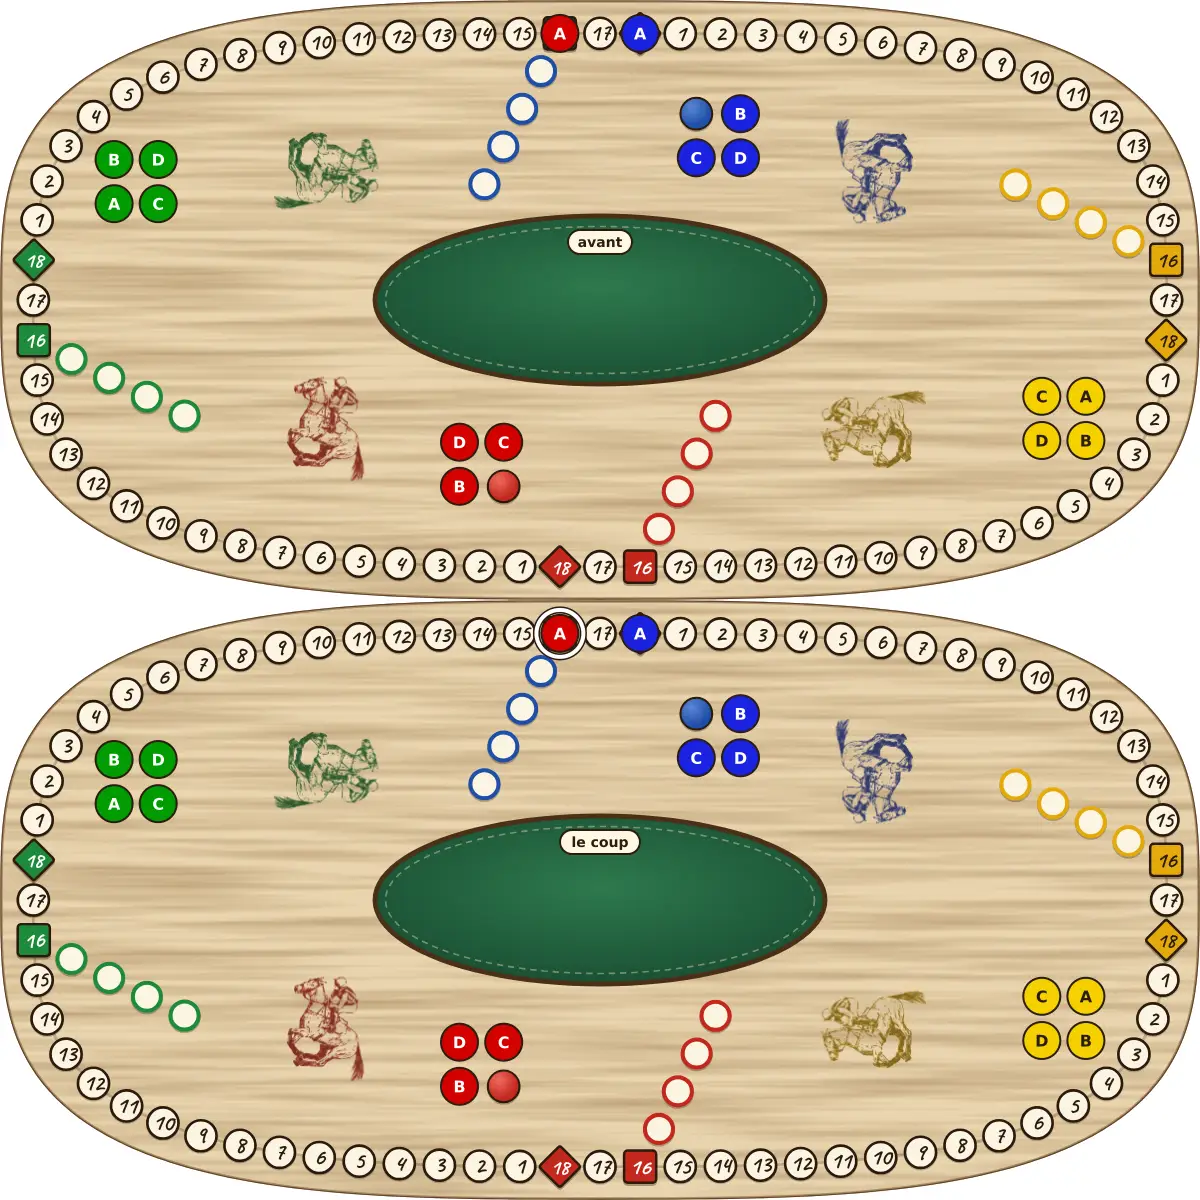
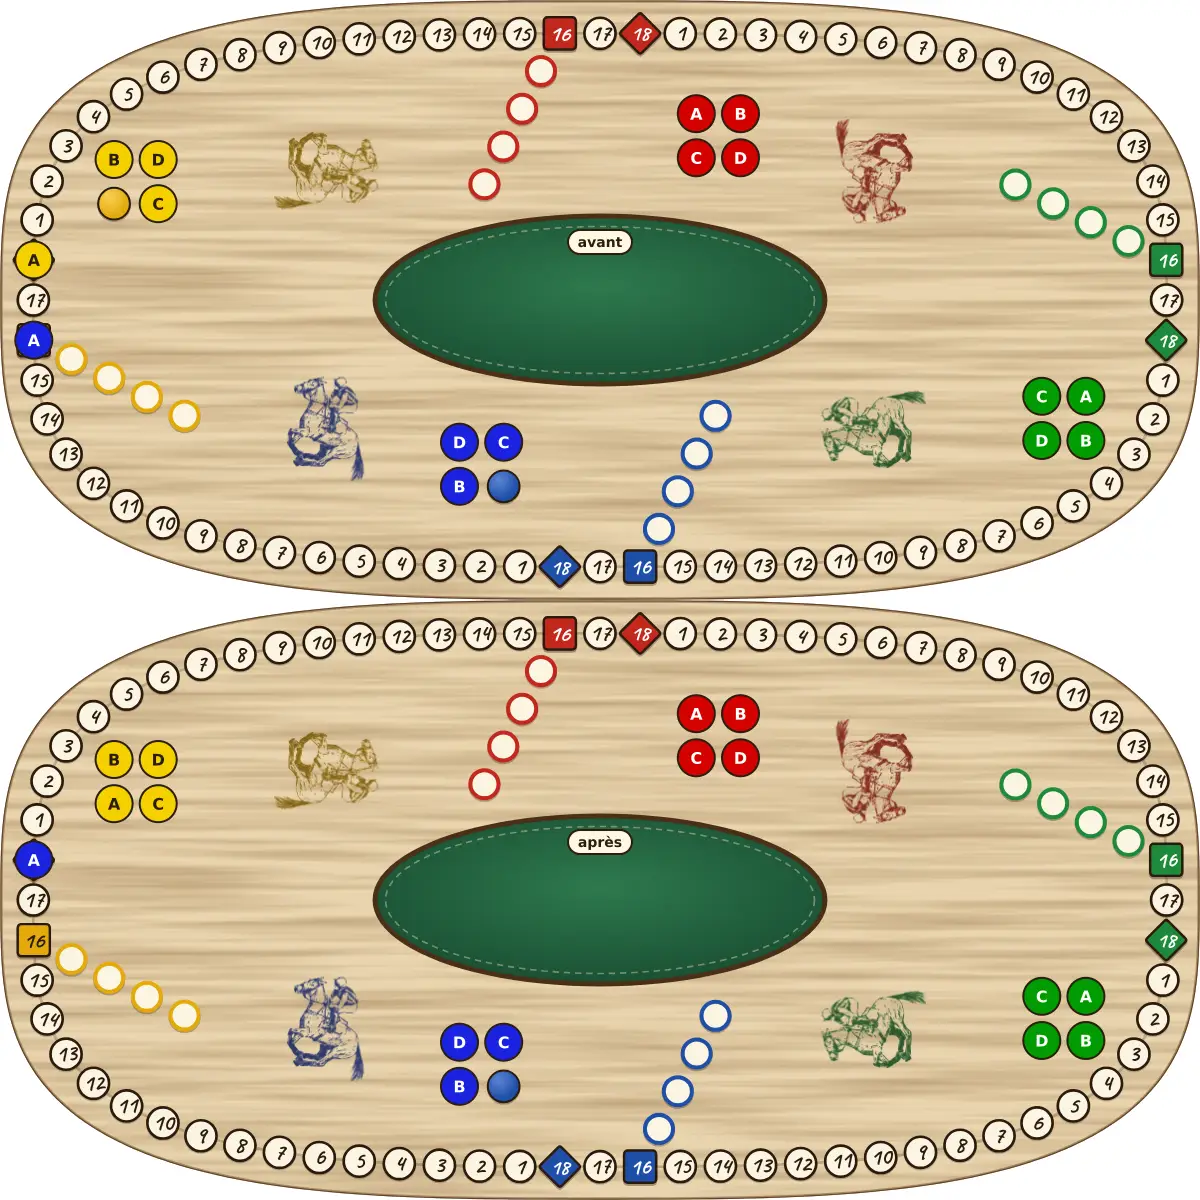
docs(04-14): G18 in RULES.md, scenarios R-12.11 to R-12.13 and their pictures
- R-12: only the knight just out of its stable is protected, until it moves; cas limites rewritten
- G18 under « Décisions de Romain » with his words and answers; G3 marked replaced; R-06, Q14 notes
- R-12.9 redrawn (ordinary after a lap: passed, eaten, swapped); R-12.11 the Valet, R-12.12 the 4 back,
  R-12.13 its own ordinary knight still blocks a second exit (« Garde le blocage »)
- property invariant: explicit flag, protected only when just out and unmoved, exits protected
- rules-trace OK (16 règles, 125 scénarios); selfplay 200 games finish

Claude-Session: https://claude.ai/code/session_01XFcHMq7VzYHojVCw4WGh9Z

diff --git a/packages/engine/test/props/invariants.test.ts b/packages/engine/test/props/invariants.test.ts
@@ -4,8 +4,9 @@
 // agree, deals end, every home entry goes forward through the colour's carré 16 (G14), no knight of the
 // mover's team is eaten in passing (G15), G16 never changes whether a 7 is playable and every applied 7
 // brings home each knight it moved that it could bring home, a knight whose count lands on an empty home
-// slot enters, jumping the knights already home (D-02, G17), and the same seed and actions give the
-// same JSON.
+// slot enters, jumping the knights already home (D-02, G17), only the knight just out of its stable is
+// protected on its own losange and it stays so until it moves (G18), and the same seed and actions give
+// the same JSON.
 
 import fc from "fast-check";
 import { describe, expect, it } from "vitest";
@@ -32,6 +33,7 @@ import {
   PARTNER,
   type PawnId,
   type Place,
+  pawnColor,
   RING,
   type Rng,
   rankOf,
@@ -82,6 +84,12 @@ const seen = {
   homeJumps: 0,
   /** D-02 with G17: forward ring moves that crossed or left their carré 16 (none may skip an open slot). */
   entryChances: 0,
+  /** G18: knights that came out of their stable, protected. */
+  exitsProtected: 0,
+  /** G18: actions after which a knight just out stayed protected without moving. */
+  protectionKept: 0,
+  /** G18: knights standing on their own losange as ordinary knights (back after a lap, a swap or a 4). */
+  ordinaryOnOwnExit: 0,
 };
 
 function check(condition: boolean, message: string): void {
@@ -166,6 +174,40 @@ function checkEntries(before: GameState, events: readonly GameEvent[]): void {
 }
 
 const colorOf = (id: PawnId): Color => id.slice(0, -1) as Color;
+
+/**
+ * G18: every ring knight carries an explicit flag; a knight is protected (justOut) only on its own
+ * losange at progress 0, and only when it came out of its stable with this action or was already
+ * protected and did not move; a knight that came out is protected; a knight that moved is not.
+ */
+function checkProtection(before: GameState, after: GameState, events: readonly GameEvent[]): void {
+  const exited = new Set(events.flatMap((e) => (e.t === "pawnExited" ? [e.pawn] : [])));
+  for (const id of ALL_PAWNS) {
+    const was = before.pawns[id];
+    const now = after.pawns[id];
+    if (now.zone !== "ring") continue;
+    check(typeof now.justOut === "boolean", `${id} on the ring without the G18 flag`);
+    const unmoved = was.zone === "ring" && was.progress === now.progress && !exited.has(id);
+    if (exited.has(id)) {
+      check(now.justOut === true && now.progress === 0, `${id} came out unprotected`);
+      seen.exitsProtected++;
+    } else if (now.justOut === true) {
+      check(
+        unmoved && was.zone === "ring" && was.justOut === true && now.progress === 0,
+        `${id} protected without coming out of its stable`,
+      );
+      seen.protectionKept++;
+    } else if (unmoved && was.zone === "ring") {
+      check(was.justOut !== true, `${id} lost its protection without moving`);
+    }
+    if (
+      now.justOut === false &&
+      ringIndex(pawnColor(id), now.progress) === ringIndex(pawnColor(id), 0)
+    ) {
+      seen.ordinaryOnOwnExit++;
+    }
+  }
+}
 
 /**
  * D-02 with G17, event by event, the home slots followed through the action: a forward move of a ring
@@ -500,6 +542,7 @@ function playChecked(
     checkPawns(state);
     checkEntries(before, result.events);
     checkHomeJumps(before, result.events);
+    checkProtection(before, state, result.events);
     checkTeamCaptures(before, state, action, result.events);
     checkDutyKept(duty, action, state);
 
@@ -562,6 +605,11 @@ describe("engine invariants over 200 random games driven by the level-1 bot", ()
     expect(seen.entryChances).toBeGreaterThan(GAMES);
     expect(seen.entryJumps).toBeGreaterThan(0);
     expect(seen.homeJumps).toBeGreaterThan(0);
+    // G18: knights came out protected, stayed protected while other knights played, and knights stood
+    // on their own losange as ordinary knights (back after a lap, a Valet swap or a 4).
+    expect(seen.exitsProtected).toBeGreaterThan(GAMES * 4);
+    expect(seen.protectionKept).toBeGreaterThan(GAMES);
+    expect(seen.ordinaryOnOwnExit).toBeGreaterThan(0);
   });
 });
 

diff --git a/packages/engine/scenarios/prises-maison.ts b/packages/engine/scenarios/prises-maison.ts
@@ -282,6 +282,78 @@ export const r12: Scenario[] = [
     },
     flags: ["G4"],
   },
+  {
+    id: "R-12.11",
+    rule: "R-12",
+    title: "Un pion placé sur sa sortie par le Valet est un pion ordinaire : on le mange",
+    before: {
+      pawns: {
+        bleu: [{ p: 18 }, "S", "S", "S"],
+        jaune: [{ p: 30 }, { p: 40 }, "S", "S"],
+        rouge: [{ p: 51 }, "S", "S", "S"],
+      },
+      hands: { bleu: ["11S"], jaune: ["2H"], rouge: ["3D"], vert: ["2C"] },
+      turn: "bleu",
+    },
+    script: [
+      { seat: "bleu", action: { t: "swap", card: "11S", pawn: "bleu0", target: "jaune0" } },
+      { seat: "jaune", action: { t: "move", card: "2H", pawn: "jaune1" } },
+      { seat: "rouge", action: { t: "move", card: "3D", pawn: "rouge0" } },
+    ],
+    expect: {
+      captured: ["jaune0"],
+      after: {
+        pawns: {
+          bleu: [{ p: 48 }, "S", "S", "S"],
+          jaune: ["S", { p: 42 }, "S", "S"],
+          rouge: [{ p: 54 }, "S", "S", "S"],
+        },
+      },
+      turn: "vert",
+    },
+    flags: ["G18"],
+  },
+  {
+    id: "R-12.12",
+    rule: "R-12",
+    title: "Un pion revenu sur sa sortie en reculant de 4 est un pion ordinaire : on le dépasse",
+    before: {
+      pawns: { vert: [{ p: 4 }, "S", "S", "S"], bleu: [{ p: 50 }, "S", "S", "S"] },
+      hands: { vert: ["4C"], bleu: ["6S"], jaune: ["2H"], rouge: ["2D"] },
+      turn: "vert",
+    },
+    script: [
+      { seat: "vert", action: { t: "move", card: "4C", pawn: "vert0" } },
+      { seat: "bleu", action: { t: "move", card: "6S", pawn: "bleu0" } },
+    ],
+    expect: {
+      captured: [],
+      after: {
+        pawns: { vert: [{ p: 0 }, "S", "S", "S"], bleu: [{ p: 56 }, "S", "S", "S"] },
+      },
+      turn: "jaune",
+    },
+    flags: ["G18"],
+  },
+  {
+    id: "R-12.13",
+    rule: "R-12",
+    title: "Mon pion ordinaire revenu sur ma sortie m’empêche aussi d’en sortir un second",
+    before: {
+      pawns: { jaune: [{ p: 72 }, "S", "S", "S"] },
+      hands: { jaune: ["13S"] },
+      turn: "jaune",
+    },
+    expect: {
+      legalInclude: [{ t: "move", card: "13S", pawn: "jaune0" }],
+      legalExclude: [
+        { t: "exit", card: "13S", pawn: "jaune1" },
+        { t: "exit", card: "13S", pawn: "jaune2" },
+        { t: "exit", card: "13S", pawn: "jaune3" },
+      ],
+    },
+    flags: ["G18", "Q15"],
+  },
 ];
 
 export const r13: Scenario[] = [

diff --git a/RULES.md b/RULES.md
@@ -1,12 +1,12 @@
 # Règles du TOC — version maison
 
-**Statut :** Validé par Romain le 2026-10-13 ; règles changées par Romain le 2026-10-14 pendant la recette, puis précisées le 2026-10-15 (G16) et changées le même jour (G17) ; voir « Décisions de Romain » à la fin
-**Date :** 2026-10-15
+**Statut :** Validé par Romain le 2026-10-13 ; règles changées par Romain le 2026-10-14 pendant la recette, puis précisées le 2026-10-15 (G16) et changées le même jour (G17), puis le 2026-10-19 (G18) ; voir « Décisions de Romain » à la fin
+**Date :** 2026-10-19
 **Contenu de cette version :** les seize règles R-01 à R-16 (équipes, plateau, donnes, échange, tour, As et Roi, cartes à avancer, le 4, le Valet, le 7, prise, sortie protégée, maison, main injouable, joueur qui a fini, fin de partie), suivies de « Décisions de Romain » (les points qu’il a validés, avec la valeur retenue) et de « Décidé » (ce qui l’est déjà, avec sa source). Chaque scénario est dessiné sur le plateau galet en largeur : en haut avant le coup, en bas après.
 
 Chaque règle est numérotée. Chaque règle cite des scénarios (`R-NN.k`) : ce sont de petits cas écrits comme des données, que le moteur de jeu devra reproduire à l’identique. Rien n’est décidé en silence dans le code : ce qui est écrit ici est ce que le jeu fera.
 
-Tous les points sont maintenant tranchés : Romain a relu et validé le document le 2026-10-13, avec la valeur par défaut pour chacun des points de « Décisions de Romain ». Le 2026-10-14, pendant la recette de la phase 1, Romain a changé des règles (G14 et suivantes, dans « Décisions de Romain »). Le 2026-10-15, après une nouvelle recette, il a précisé l’entrée dans la maison (G16) ; la façon dont le 7 l’applique est une lecture à confirmer par Romain. Le même jour, il a décidé qu’un cheval saute les chevaux déjà rentrés dans sa maison (G17, qui remplace G2). Ce que dit ce document est ce que le moteur fait.
+Tous les points sont maintenant tranchés : Romain a relu et validé le document le 2026-10-13, avec la valeur par défaut pour chacun des points de « Décisions de Romain ». Le 2026-10-14, pendant la recette de la phase 1, Romain a changé des règles (G14 et suivantes, dans « Décisions de Romain »). Le 2026-10-15, après une nouvelle recette, il a précisé l’entrée dans la maison (G16) ; la façon dont le 7 l’applique est une lecture à confirmer par Romain. Le même jour, il a décidé qu’un cheval saute les chevaux déjà rentrés dans sa maison (G17, qui remplace G2). Le 2026-10-19, il a décidé que seul le cheval qui vient de sortir de son écurie est protégé sur son losange (G18, qui remplace G3). Ce que dit ce document est ce que le moteur fait.
 
 ## Vocabulaire
 
@@ -124,8 +124,9 @@ Tous les points sont maintenant tranchés : Romain a relu et validé le document
 **Cas limites**
 - S’il n’y a plus de cheval à l’écurie, l’As et le Roi ne servent qu’à avancer.
 - Quand plusieurs chevaux sont à l’écurie, ils sont interchangeables : c’est le premier (le plus petit numéro) qui sort.
-- Un cheval adverse ou du partenaire garé sur mon losange est mangé par ma sortie, puisqu’il n’y est pas protégé : seul le cheval de la couleur du losange y est protégé (Q13 acté par RULE-14, Q14 acté par RULE-13).
-- Mon propre cheval sur mon losange bloque ma deuxième sortie : il faut d’abord le faire avancer (Q15, acté par RULE-14).
+- Un cheval adverse ou du partenaire garé sur mon losange est mangé par ma sortie, puisqu’il n’y est pas protégé : seul le cheval de la couleur du losange peut y être protégé (Q13 acté par RULE-14, Q14 acté par RULE-13 ; et seulement s’il vient d’en sortir, G18).
+- Mon propre cheval sur mon losange bloque ma deuxième sortie : il faut d’abord le faire avancer (Q15, acté par RULE-14). C’est vrai qu’il y soit protégé ou ordinaire (G18, R-12.13).
+- Le cheval qui sort est protégé sur son losange tant qu’il ne bouge pas (R-12, G18).
 
 **Scénarios**
 - R-06.1 — L’As sort un pion ou avance de 1 : les deux sont permis
@@ -289,13 +290,15 @@ Tous les points sont maintenant tranchés : Romain a relu et validé le document
 
 ### R-12 Case de sortie protégée
 
-**Règle** — Un cheval arrêté sur le losange de sa propre couleur est protégé : aucun cheval ne peut le dépasser, en avant, en arrière avec le 4 ou au milieu d’un 7, ni le manger, ni l’échanger avec le Valet. Cela vaut aussi pour les autres chevaux de sa propre couleur. Un cheval d’une autre couleur sur ce losange est un cheval ordinaire. Sortir un cheval sur son losange occupé par un cheval d’une autre couleur mange ce cheval ; c’est impossible si son propre cheval y est déjà.
+**Règle** — Un cheval qui sort de son écurie (avec l’As ou le Roi) arrive sur le losange de sa propre couleur, sa case de sortie (son 18) : il y est protégé tant qu’il ne bouge pas, même pendant plusieurs tours. Aucun cheval ne peut le dépasser, en avant, en arrière avec le 4 ou au milieu d’un 7, ni le manger, ni l’échanger avec le Valet. Cela vaut aussi pour les autres chevaux de sa propre couleur. Dès qu’il bouge, il n’est plus protégé. Seul le cheval qui vient de sortir est protégé (G18, 2026-10-19) : un cheval qui revient sur son losange autrement (après un tour de plus ou une entrée manquée, par un échange au Valet, en reculant de 4) y est un cheval ordinaire, qu’on dépasse, qu’on mange et qu’on échange. Un cheval d’une autre couleur sur ce losange est un cheval ordinaire. Sortir un cheval sur son losange occupé par un cheval d’une autre couleur mange ce cheval ; c’est impossible si son propre cheval y est déjà, protégé ou ordinaire.
 
 **Cas limites**
 - La protection ne vaut que pour la couleur du losange : c’est acté (D-04, RULE-13).
-- Mon cheval sur ma sortie bloque ma deuxième sortie : il faut le faire avancer d’abord (Q15, acté par RULE-14).
-- Un cheval protégé reste libre de bouger : dès qu’il quitte son losange, il n’est plus protégé.
-- Un cheval qui s’arrête sur sa sortie après un tour de plus y est protégé comme au premier passage (G3, validé).
+- Mon cheval sur ma sortie bloque ma deuxième sortie : il faut le faire avancer d’abord (Q15, acté par RULE-14). Cela vaut aussi quand ce cheval y est ordinaire, revenu après un tour de plus, un échange ou un recul (Romain, 2026-10-19 : « Garde le blocage » ; R-12.13).
+- Un cheval protégé reste libre de bouger : dès qu’il quitte son losange, il n’est plus protégé. S’il y revient plus tard, il y est ordinaire (G18).
+- Le cheval qui vient de sortir reste protégé tant qu’il ne bouge pas, quel que soit le nombre de tours (G18 : « Oui, tant qu’il ne bouge pas »).
+- Un cheval qui s’arrête sur sa sortie après un tour de plus, ou parce que la case visée de sa maison était occupée, y est un cheval ordinaire (G18, R-12.9). Jusqu’au 2026-10-19, il y était protégé comme au premier passage (G3, remplacé par G18).
+- Un cheval que le Valet place sur sa propre sortie y est ordinaire (G18, R-12.11) ; de même un cheval qui y revient en reculant de 4 (G18, R-12.12).
 - Le cheval protégé bloque aussi les autres chevaux de sa propre couleur, pour le 4, le 7 et les cartes à avancer (G4, validé).
 - Le cheval qui entre dans sa maison passe par le carré 16, avant le losange : l’entrée ne croise jamais son losange.
 
@@ -316,10 +319,16 @@ Tous les points sont maintenant tranchés : Romain a relu et validé le document
   ![R-12.7](docs/regles/R-12.7.webp)
 - R-12.8 — Sur la sortie d’une autre couleur, un pion est un pion ordinaire : on le mange
   ![R-12.8](docs/regles/R-12.8.webp)
-- R-12.9 — Un pion revenu sur sa sortie après un tour de plus est protégé aussi
+- R-12.9 — Un pion revenu sur sa sortie après un tour de plus est un pion ordinaire : on le dépasse, on le mange, on l’échange
   ![R-12.9](docs/regles/R-12.9.webp)
 - R-12.10 — Mon pion protégé bloque aussi le passage de mes autres pions
   ![R-12.10](docs/regles/R-12.10.webp)
+- R-12.11 — Un pion placé sur sa sortie par le Valet est un pion ordinaire : on le mange
+  ![R-12.11](docs/regles/R-12.11.webp)
+- R-12.12 — Un pion revenu sur sa sortie en reculant de 4 est un pion ordinaire : on le dépasse
+  ![R-12.12](docs/regles/R-12.12.webp)
+- R-12.13 — Mon pion ordinaire revenu sur ma sortie m’empêche aussi d’en sortir un second
+  ![R-12.13](docs/regles/R-12.13.webp)
 
 ### R-13 Entrée dans la maison
 
@@ -491,7 +500,7 @@ Quand une carte peut amener un cheval pile sur une case vide de sa maison, cette
 
 Romain a relu ce document, les points ci-dessous et les images R-09.8, R-09.9, R-13.7 et R-10.13, puis l’a validé tel quel le 2026-10-13 : chaque point prend la valeur retenue indiquée. Aucune correction. (L’image R-13.7 a été redessinée le 2026-10-15 pour G17, qui remplace G2.) Les scénarios R-09.9 et R-15.9 dessinent l’autre choix de G1 et de G12 : ils sont conservés comme repères et ne sont pas implémentés. Chaque valeur est une constante nommée dans `packages/engine/src/rules.ts`.
 
-Le 2026-10-14, pendant la recette de la phase 1, Romain a changé les règles ci-dessous (G14 et suivantes). Ses mots sont cités tels quels.
+Le 2026-10-14, pendant la recette de la phase 1, Romain a changé les règles ci-dessous (G14 et suivantes ; G18 le 2026-10-19). Ses mots sont cités tels quels.
 
 - **G14 — Entrée dans la maison sans tour complet (décision du 2026-10-14).** Retenu : un cheval qui atteint ou franchit son carré 16 en avançant entre dans sa maison au compte exact sur une case vide, même s’il n’a pas fait le tour complet ; l’entrée reste obligatoire quand le compte tombe juste ; on n’entre jamais en reculant. Les mots de Romain : « si le cheval n’a pas fait le tour complet et qu’il arrive en situation de pouvoir rentrer (par 4 ou par valet) doit pouvoir rentrer ». Remplace « tour complet obligatoire » (D-04, Q3). Constante ENTRY_WITHOUT_FULL_LAP. Touche R-02, R-08, R-09, R-13 ; scénarios R-02.3, R-08.7, R-13.12, R-13.16 à R-13.21.
 - **G15 — Le 7 et le cheval du partenaire (décision du 2026-10-14).** Retenu : le 7 mange les chevaux adverses qu’il dépasse, mais dépasse ceux du partenaire sans les manger ; il mange le cheval du partenaire seulement s’il s’arrête sur lui, et c’est obligatoire. Aucun cheval de l’équipe n’est mangé au passage, y compris quand un joueur qui a fini joue les chevaux de son partenaire. Les mots de Romain : « Le 7 ne doit pas manger les partenaires quand il les double, mais seulement s’il arrive sur eux (pas le choix). » Remplace Q23 pour le passage du 7. Constante SEVEN_EATS_PASSED_PARTNER. Touche R-07, R-10, R-11, R-15 ; scénarios R-10.6, R-10.7, R-10.14, R-15.10.
@@ -508,12 +517,20 @@ Le 2026-10-14, pendant la recette de la phase 1, Romain a changé les règles ci
   - À la question « Un cheval déjà rentré dans son arrivée peut encore y avancer pour se ranger au fond, au compte exact. Peut-il lui aussi sauter les chevaux devant lui ? », son choix : « Oui, aussi (Recommandé) ». Le texte de l’option était : « Même règle partout dans l'arrivée : on peut sauter les chevaux déjà rentrés, tant qu'on tombe au compte exact sur une case vide. »
   - Retenu : dans la maison, en entrant depuis le carré 16 comme en y avançant, un cheval saute les chevaux déjà rentrés. Il lui faut toujours le compte exact jusqu’à une case vide (D-01) : si le compte dépasse le fond ou si la case où il tombe est occupée, il n’entre pas et repart pour un tour (dans la maison, ce coup est impossible). Quand le compte tombe juste sur une case vide, l’entrée reste obligatoire (D-02), en sautant s’il le faut. Le 4 ne fait jamais entrer (D-04). Avec le 7, G16 compte ces entrées.
   - Remplace G2 (validé le 2026-10-13) et la fin de D-03 (« sans sauter un autre cheval »). Constante HOME_JUMP_ALLOWED ; l’ancienne règle G2 reste réglable (HOME_JUMP_BLOCKED). Touche R-13 ; scénarios R-13.7, R-13.10, R-13.19 (réécrits) et R-13.28 à R-13.31.
+- **G18 — Seul le cheval qui vient de sortir est protégé sur son 18 (décision du 2026-10-19).** Romain a joué dans l’application installée.
+  - Les mots de Romain : « Quand un joueur se place sur son propre 18 après avoir loupé l'entrée dans son écurie, il n'est pas bloquant et il reste échangeable. Cette règle ne s'applique qu'aux chevaux qui sortent juste de leur camp, ok ? » (Son « 18 » est la case de sortie de sa couleur, le losange ; son « écurie » est ici la maison d’arrivée, son « camp » l’écurie de départ.)
+  - À la question « Et un cheval qui arrive sur son 18 autrement, par un échange au Valet ou en reculant de 4 ? », son choix : « Ordinaire aussi (Recommandé) ».
+  - À la question « Et un cheval qui vient de sortir et reste sur son 18 : il reste protégé tant qu'il n'a pas bougé ? », son choix : « Oui, tant qu'il ne bouge pas (Recommandé) ».
+  - À la question « ton propre cheval posé sur ton 18 t'empêche d'en sortir un second : je garde ce blocage même quand ce cheval est ordinaire », son choix : « Garde le blocage ».
+  - Retenu : seul le cheval qui sort de son écurie sur son losange y est protégé, et il le reste tant qu’il ne bouge pas. Toute autre arrivée sur son losange donne un cheval ordinaire : après un tour de plus ou une entrée manquée, après un échange au Valet, après un recul de 4. On le dépasse, on le mange et on l’échange au Valet comme n’importe quel cheval. Le reste de R-12 ne change pas : le cheval protégé bloque aussi sa propre couleur (G4), et son propre cheval sur le losange, protégé ou ordinaire, empêche une deuxième sortie (Q15).
+  - Les parties sauvegardées avant le 2026-10-19 reprennent avec G18 : un cheval qui s’y trouvait sur son losange au départ (progression 0) y reste protégé tant qu’il ne bouge pas ; un cheval revenu sur son losange après un tour de plus y devient ordinaire.
+  - Remplace G3 (validé le 2026-10-13). Constante EXIT_ONLY_PROTECTION ; l’ancienne règle G3 reste réglable (PROTECTED_AFTER_EXTRA_LAP). Touche R-06, R-12 ; scénario R-12.9 (réécrit) et R-12.11 à R-12.13.
 
 Les points validés le 2026-10-13 :
 
 - **G1 — Progression d’un cheval après un échange au Valet.** Retenu : le cheval qui change de case prend la progression de sa nouvelle case (de 0 à 71 ; un cheval qui avait fait un tour de plus perd ce tour). Touche R-02, R-09, R-13 ; scénarios R-09.1, R-09.2, R-09.8, R-15.4. Le scénario R-09.9 (garder ses tours) n’est pas retenu.
 - **G2 — Entrée bloquée par un cheval déjà rentré.** Retenu le 2026-10-13 : le cheval ne le saute pas et repart pour un tour, comme si la case était occupée. **Remplacé par G17 le 2026-10-15** : le cheval saute les chevaux déjà rentrés (voir G17 plus haut). Touche R-13 ; scénario R-13.7, réécrit pour G17.
-- **G3 — Cheval qui s’arrête sur sa sortie après un tour de plus.** Retenu : il est protégé comme au premier passage, la protection tient à la case et à la couleur, pas au tour. Touche R-12 ; scénario R-12.9.
+- **G3 — Cheval qui s’arrête sur sa sortie après un tour de plus.** Retenu le 2026-10-13 : il est protégé comme au premier passage, la protection tient à la case et à la couleur, pas au tour. **Remplacé par G18 le 2026-10-19** : seul le cheval qui vient de sortir est protégé, celui qui revient après un tour de plus est ordinaire (voir G18 plus haut). Touche R-12 ; scénario R-12.9, réécrit pour G18.
 - **G4 — Un cheval protégé bloque-t-il aussi ses propres chevaux ?** Retenu : oui, personne ne le dépasse, y compris son propre camp. Touche R-08, R-12 ; scénarios R-08.4, R-08.5, R-12.10.
 - **G5 — Le même cheval deux fois dans un 7.** Retenu : un plan peut reprendre un cheval déjà déplacé plus tôt dans le même 7 ; deux pas de suite du même cheval n’en font qu’un. Touche R-10 ; scénario R-10.13.
 - **G6 — Le Valet avec mon propre cheval protégé sur ma sortie.** Retenu : impossible, un cheval protégé ne s’échange pas, ni comme cible ni comme cheval joué. Touche R-09 ; scénario R-09.6.
@@ -549,7 +566,7 @@ Ces points ne sont plus à discuter : ils sont écrits plus haut sans réserve.
 - Q11, un cheval à l’écurie ou dans la maison ne s’échange pas au Valet (RULE-09).
 - Q12, un cheval protégé ne s’échange pas : sans autre cible, le Valet est injouable (RULE-09, RULE-13).
 - Q13, sortir sur un cheval d’une autre couleur garé sur sa sortie le mange (RULE-14).
-- Q14, seul le cheval de la couleur du losange y est protégé (RULE-13).
+- Q14, seul le cheval de la couleur du losange y est protégé (RULE-13) ; depuis le 2026-10-19, seulement s’il vient d’en sortir (G18).
 - Q15, mon cheval sur ma sortie bloque ma deuxième sortie (RULE-14).
 - Q16, le 5 fait avancer les chevaux du partenaire quand on a fini (RULE-17).
 - Q17, les chevaux du partenaire comptent comme les siens pour toutes les cartes (RULE-17).
